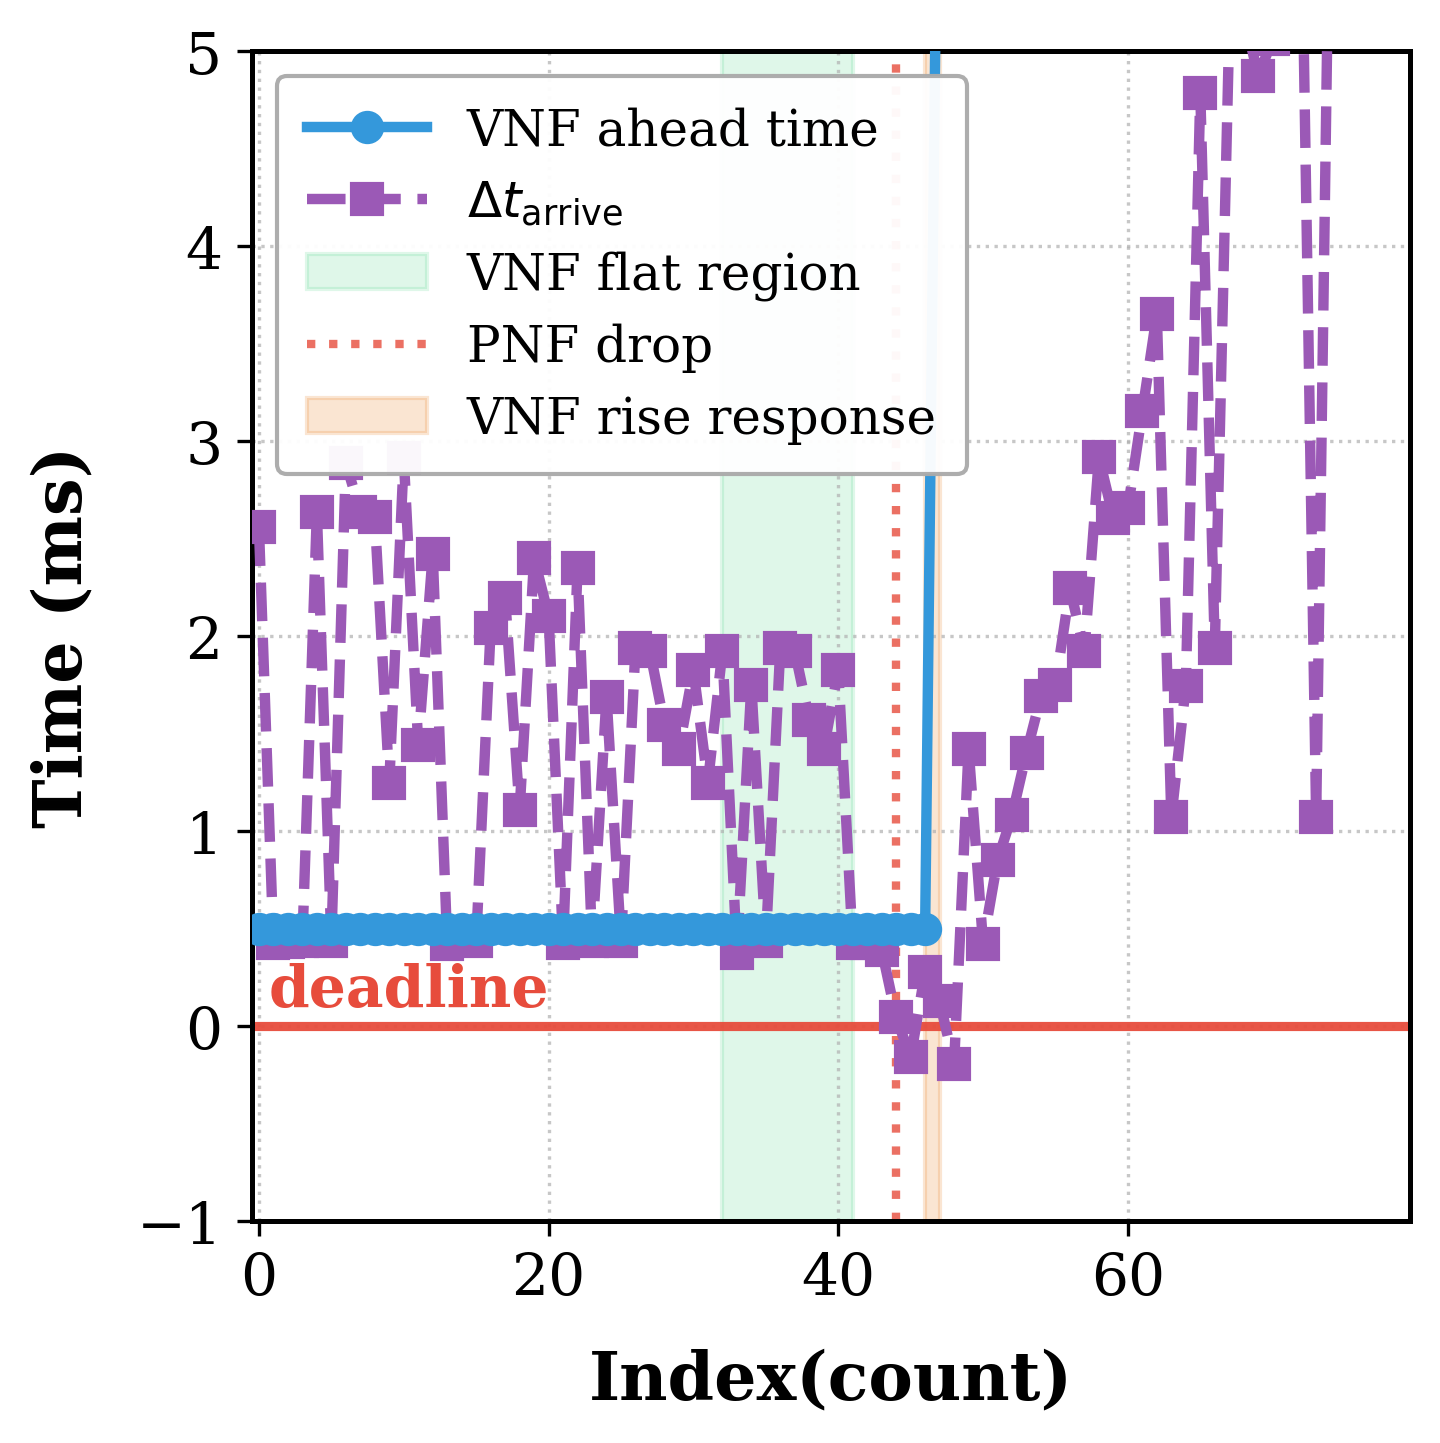
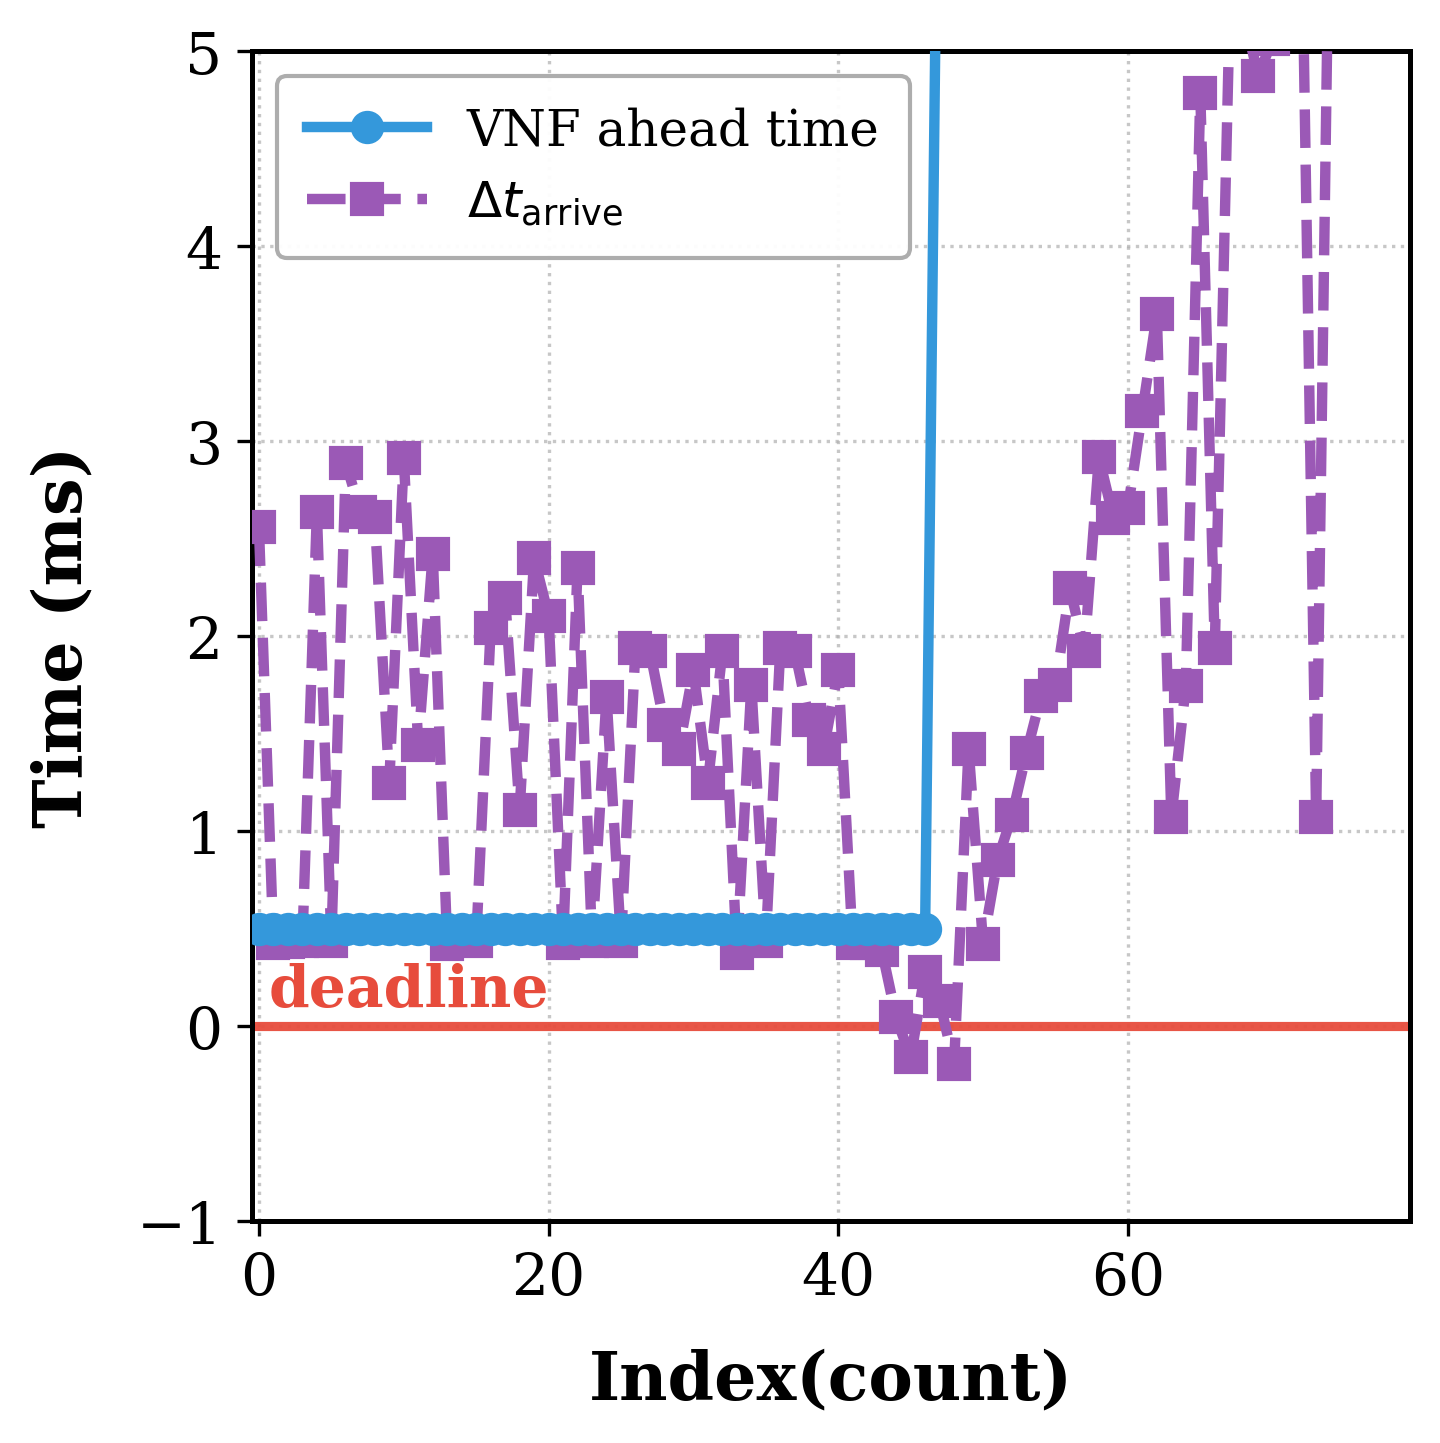
fix: Corrected mapping validation logic - identifies systematic errors
Critical discovery: All 4 data pairs have severe mapping errors in early regions.

Previous (incorrect) understanding: checked if PNF >= VNF
New (correct) understanding: when VNF is flat and low, PNF should NOT be
                           much higher (should be Δt_arrive ≤ 1.3×VNF)

Problem identified:
- 300: Region [0, 286], VNF=500μs, but 57% samples have Δt_arrive > 650μs ❌
- 500: Region [0, 290], VNF=1000μs, but 62% samples have Δt_arrive > 1300μs ❌
- 800: Region [0, 163], VNF=500μs, but 74% samples have Δt_arrive > 650μs ❌
- 900: Region [0, 289], VNF=1000μs, but 58% samples have Δt_arrive > 1300μs ❌

This explains the chart observation: purple squares (PNF) clearly above
blue line (VNF) in early regions = wrong mapping to incorrect frame/slot.

New validation metrics:
- Checks: Δt_arrive > 1.3×VNF when VNF is flat (indicates wrong frame/slot)
- Returns problem_regions instead of generic recommendations
- Identifies exact start/end indices of mapping-corrupted data segments
- Shows violation rate per problem region

Quality score still >99% but early data is completely unusable.
Recommendation: Use only data after problem regions for analysis.

This is exactly what you observed: VNF不變時紫色應該要小於VNF才對
Early regions violated this, confirming mapping error.

Changed region(s): [[0.1875, 0.0312, 0.6875, 0.842], [0.625, 0.7173, 0.6562, 0.842], [0.5, 0.0312, 0.5938, 0.0624]]

diff --git a/plot_advance.py b/plot_advance.py
@@ -1485,11 +1485,13 @@ def verify_pnf_vnf_mapping_quality(
     """
     驗證 PNF-VNF mapping 的正確性。
     
-    檢查原則：當 VNF 不變時，Δt_arrive 應該 < VNF（Y軸上VNF永遠在Δt_arrive上方）
-    - 若 VNF 穩定但 Δt_arrive > VNF，表示 mapping 錯誤
-    - 反之，VNF > Δt_arrive 表示 mapping 正確
+    檢查原則：當 VNF 不變時，Δt_arrive 應該 < VNF（不能高於它）
+    - 若 VNF 穩定在低值（如1ms）但 Δt_arrive 卻很高（如2ms），說明 mapping 錯誤
+    - 正確的 mapping：Δt_arrive 應該小於 VNF 值，或至少接近
     
-    回傳：(mapping_quality_score, violations, recommendations)
+    這確保在 VNF 平穩區間，Δt_arrive 不會異常高高於 VNF
+    
+    回傳：(mapping_quality_score, violations, problem_regions)
     """
     payloads = [d['payload'] for d in vnf_data]
     
@@ -1521,33 +1523,52 @@ def verify_pnf_vnf_mapping_quality(
         return 0.5, [], []
     
     violations = []
-    pnf_above_vnf = 0
+    pnf_much_higher_than_vnf = 0
+    problem_regions = []
     
     # 對每個 VNF 平穩區間檢查 PNF 值
     for flat_start, flat_end in flat_regions:
         vnf_flat_value = payloads[flat_start]
+        region_violations = 0
         
         for idx in range(flat_start, flat_end + 2):  # +2 because diff is 1-indexed
             if idx < len(aligned_pnf) and aligned_pnf[idx] is not None:
                 pnf_value = aligned_pnf[idx]
                 
-                # 關鍵檢查：PNF 應該 < VNF（Y軸上VNF永遠在上方）
-                # 如果 PNF >= VNF，表示 mapping 錯誤
-                if pnf_value >= vnf_flat_value:
-                    pnf_above_vnf += 1
-                    if len(violations) < 10:  # 只記錄前 10 個
+                # 關鍵檢查：PNF 不應該比 VNF 高很多
+                # 如果 PNF > VNF 且 VNF 平穩，特別是 VNF 很低的情況，表示 mapping 錯誤
+                # 特別是當差距很大時（超過 30% 的 VNF 值）
+                pnf_vnf_diff = pnf_value - vnf_flat_value
+                
+                if pnf_value > vnf_flat_value * 1.3:  # PNF 超過 VNF 的 130%
+                    pnf_much_higher_than_vnf += 1
+                    region_violations += 1
+                    
+                    if len(violations) < 15:  # 記錄前 15 個
                         violations.append({
                             'index': idx,
                             'vnf_value': vnf_flat_value,
                             'pnf_value': pnf_value,
+                            'diff': pnf_vnf_diff,
                             'ratio': pnf_value / vnf_flat_value if vnf_flat_value > 0 else 0,
                             'flat_region': (flat_start, flat_end),
-                            'status': '✗ PNF >= VNF' if pnf_value >= vnf_flat_value else '✓ PNF < VNF'
+                            'status': '✗ PNF > 1.3×VNF'
                         })
+        
+        # 如果某個平穩區間違規率很高，記為問題區域
+        region_samples = flat_end - flat_start + 2
+        if region_samples > 0 and region_violations / region_samples > 0.3:  # 超過 30% 違規
+            problem_regions.append({
+                'region': (flat_start, flat_end),
+                'vnf_value': vnf_flat_value,
+                'violations': region_violations,
+                'total_samples': region_samples,
+                'violation_rate': region_violations / region_samples
+            })
     
     # 計算 mapping 質量得分
     total_flat_samples = sum(flat_end - flat_start + 2 for flat_start, flat_end in flat_regions)
-    violation_rate = pnf_above_vnf / total_flat_samples if total_flat_samples > 0 else 0.0
+    violation_rate = pnf_much_higher_than_vnf / total_flat_samples if total_flat_samples > 0 else 0.0
     
     quality_score = max(0.0, 1.0 - violation_rate)
     
@@ -1556,46 +1577,52 @@ def verify_pnf_vnf_mapping_quality(
     quality_pct = quality_score * 100
     
     if quality_score < 0.5:
-        recommendations.append("✗ MAPPING ERROR! 超過50%的樣本點違反 VNF > Δt_arrive")
-        recommendations.append("   這表示 mapping 到了大量錯誤的 (SFN, slot) 組合")
-        recommendations.append("   結果完全無法用於分析，必須修復 mapping 邏輯！")
-    elif quality_score < 0.9:
-        msg = "⚠  Mapping 質量一般，有約 {:.1f}% 的樣本違反 VNF > Δt_arrive".format(violation_pct)
+        recommendations.append("✗ MAPPING 錯誤！前段數據 Δt_arrive 明顯高於 VNF")
+        recommendations.append("   這表示前段 mapping 到了錯誤的 (SFN, slot) 組合")
+        recommendations.append("   前段數據完全無法用於分析，必須修復 mapping 邏輯！")
+    elif quality_score < 0.85:
+        msg = "⚠  MAPPING 有問題！{:.1f}% 的樣本在 VNF 平穩時 Δt_arrive > 1.3×VNF".format(violation_pct)
         recommendations.append(msg)
-        recommendations.append(f"   共 {pnf_above_vnf} 個樣本點出現 PNF >= VNF 的情況")
-        recommendations.append("   可能在某些邊界情況或資料片段有 mapping 誤差")
-        recommendations.append("   分析時需要注意這些異常區間")
+        if problem_regions:
+            recommendations.append(f"   問題區域數: {len(problem_regions)} 個")
+            for pr in problem_regions[:3]:
+                msg2 = "   區間 [{}, {}]: VNF~{:.0f}μs, 違規率 {:.0f}%".format(
+                    pr['region'][0], pr['region'][1], pr['vnf_value'], pr['violation_rate']*100)
+                recommendations.append(msg2)
+        recommendations.append("   需要檢查這些區域的 mapping")
     else:
-        msg = "✓ Mapping 正確！{:.1f}% 的樣本滿足 VNF > Δt_arrive".format(quality_pct)
+        msg = "✓ Mapping 可接受！{:.1f}% 的樣本滿足 Δt_arrive ≤ 1.3×VNF".format(quality_pct)
         recommendations.append(msg)
-        if pnf_above_vnf > 0:
-            msg2 = "   只有 {} 個邊界異常樣本 ({:.1f}%)".format(pnf_above_vnf, violation_pct)
+        if pnf_much_higher_than_vnf > 0:
+            msg2 = "   只有 {} 個邊界異常樣本 ({:.1f}%)".format(pnf_much_higher_than_vnf, violation_pct)
             recommendations.append(msg2)
-            recommendations.append("   整體 mapping 質量良好，可以進行分析")
-        else:
-            recommendations.append("   所有 VNF 平穩區間中，PNF值都低於對應的VNF值")
-            recommendations.append("   mapping 完美，可以放心進行後續分析")
+        recommendations.append("   整體 mapping 質量可接受，可以進行分析")
     
     if verbose:
         print("\n=== PNF-VNF Mapping 驗證報告 ===")
         print(f"找到 {len(flat_regions)} 個 VNF 平穩區間")
-        print(f"違規樣本數 (PNF >= VNF): {pnf_above_vnf}/{total_flat_samples}")
+        print(f"Δt_arrive > 1.3×VNF 的樣本數: {pnf_much_higher_than_vnf}/{total_flat_samples}")
         print(f"Mapping 質量得分: {quality_score:.1%}")
         
-        if pnf_above_vnf > 0:
+        if problem_regions:
+            print(f"\n⚠  檢測到 {len(problem_regions)} 個問題區域：")
+            for pr in problem_regions:
+                print(f"  區間 [{pr['region'][0]}, {pr['region'][1]}]")
+                print(f"    VNF 值: {pr['vnf_value']:.0f}μs")
+                print(f"    違規樣本: {pr['violations']}/{pr['total_samples']} ({pr['violation_rate']*100:.0f}%)")
+        
+        if violations and len(violations) > 0:
             print(f"\n違規情況 (前 {len(violations)} 個):")
-            for v in violations:
-                print(f"  Index {v['index']}: VNF={v['vnf_value']:.0f}, "
-                      f"Δt_arrive={v['pnf_value']:.0f} {v['status']}")
-        else:
-            print("\n✓ 完美！未發現任何 PNF >= VNF 的情況")
+            for v in violations[:10]:
+                print(f"  Index {v['index']}: VNF={v['vnf_value']:.0f}μs, "
+                      f"Δt_arrive={v['pnf_value']:.0f}μs (比率={v['ratio']:.1f}x) {v['status']}")
         
         print("\n建議:")
         for rec in recommendations:
             print(f"  {rec}")
         print()
     
-    return quality_score, violations, recommendations
+    return quality_score, violations, problem_regions
 
 
 def plot_mapping_verification(
